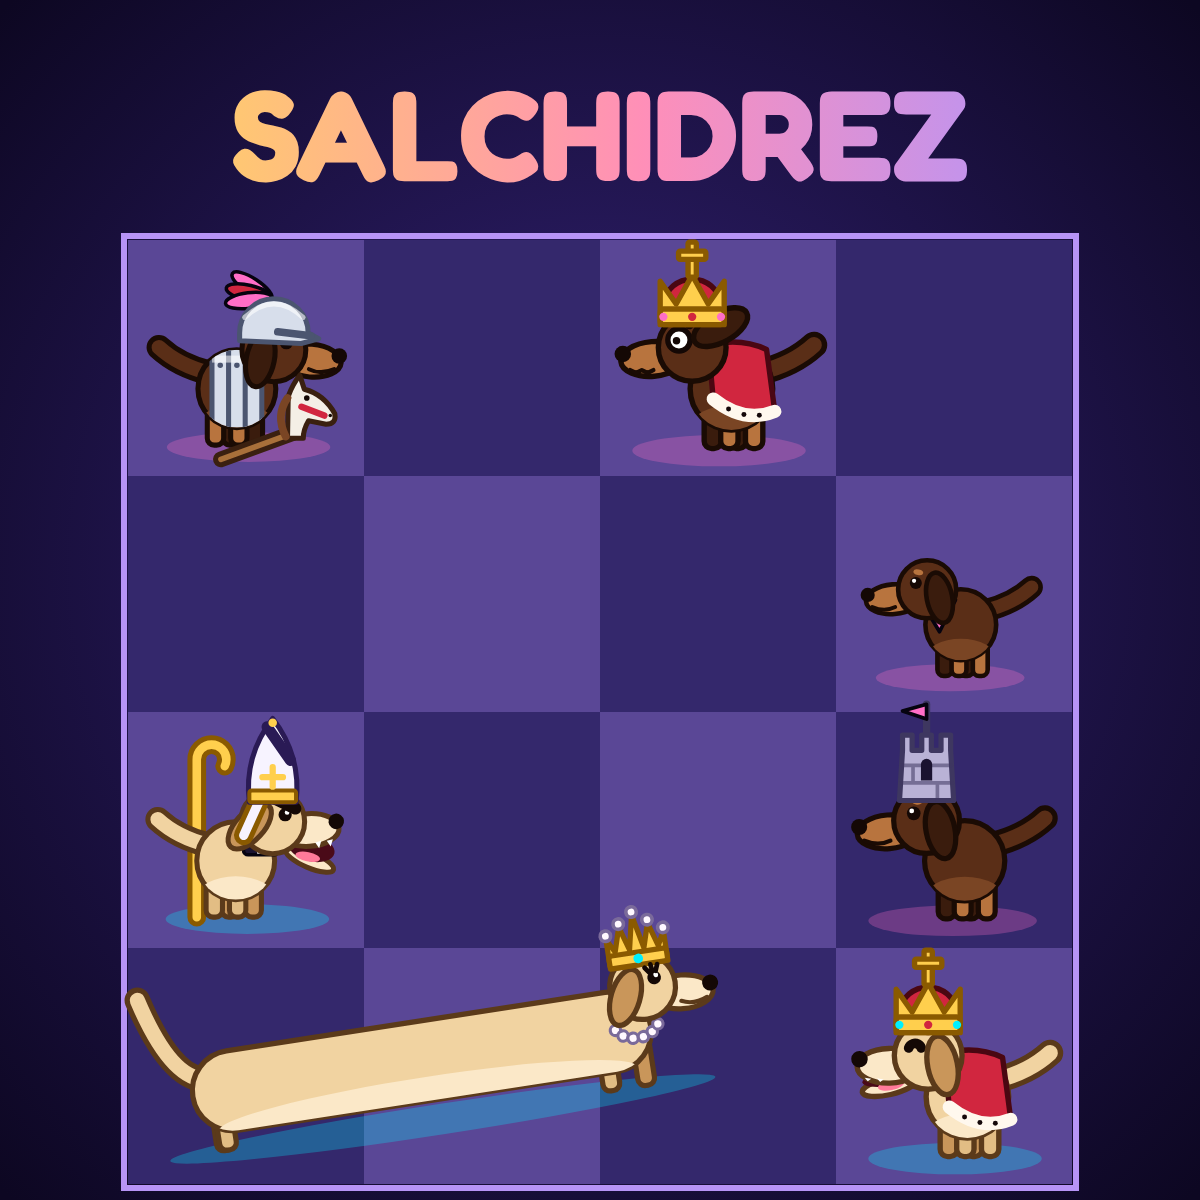
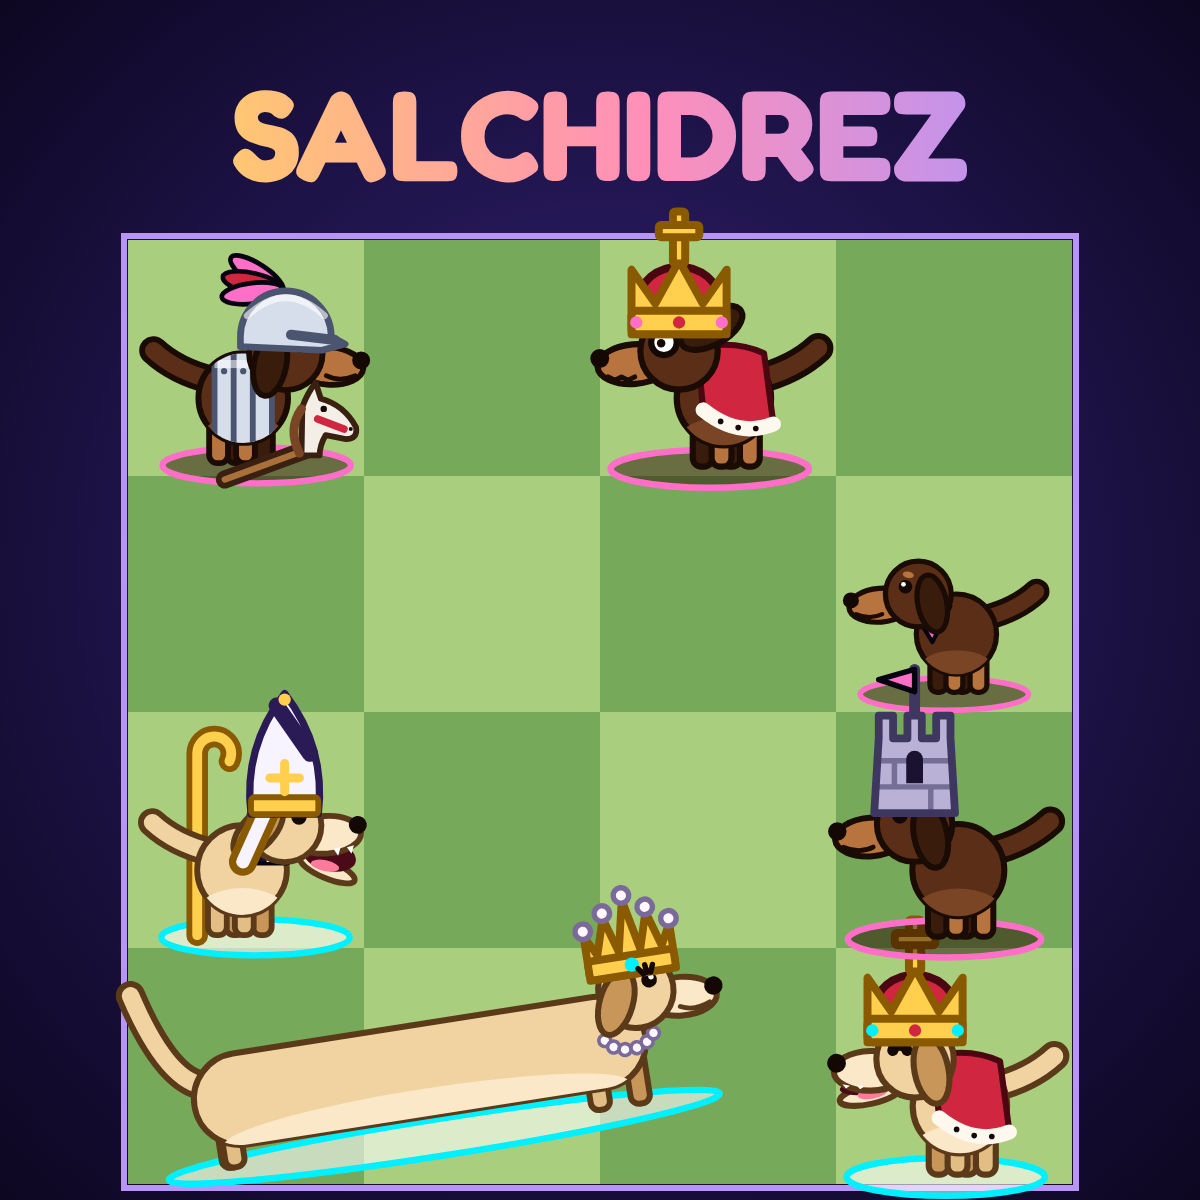
Salchidrez v0.6: piezas más grandes y legibles
Tablero de pasto en tonos medios que contrasta con perros claros y
oscuros, base del color de equipo bajo cada perro, sombreros más grandes,
medallita con el símbolo clásico activada de entrada (contorno para
Crema, relleno para Chocolate), huesitos con borde y resaltados más
visibles. Imagen de la tarjeta actualizada.

Claude-Session: https://claude.ai/code/session_01QYLh8qJZvqWht3UPzmo6eP

diff --git a/salchidrez/index.html b/salchidrez/index.html
@@ -256,7 +256,7 @@
       <button class="link" id="btn-legend">Quién es quién</button>
       <label class="link" for="opt-glyphs"><input type="checkbox" id="opt-glyphs"> Símbolos clásicos</label>
     </div>
-    <p class="foot">JETCompany OÜ · Salchidrez v0.5<br><span id="wins-label"></span></p>
+    <p class="foot">JETCompany OÜ · Salchidrez v0.6<br><span id="wins-label"></span></p>
   </div>
 </div>
 
@@ -316,12 +316,12 @@ const PAL = {
 
 // Proporciones por pieza (relativas al tamaño de casilla): radio del cuerpo y largo
 const DOG = {
-  p: { r: 0.15,  len: 0.26 },
-  n: { r: 0.165, len: 0.30 },
-  b: { r: 0.165, len: 0.31 },
-  r: { r: 0.17,  len: 0.32 },
-  q: { r: 0.17,  len: 0.34 },
-  k: { r: 0.175, len: 0.35 },
+  p: { r: 0.17,  len: 0.25 },
+  n: { r: 0.19,  len: 0.28 },
+  b: { r: 0.19,  len: 0.29 },
+  r: { r: 0.195, len: 0.30 },
+  q: { r: 0.195, len: 0.31 },
+  k: { r: 0.2,   len: 0.32 },
 };
 
 const NAMES = {
@@ -677,7 +677,7 @@ function dogAnchors(type, cx, cy, s, dir) {
   const d = DOG[type];
   const r = d.r * s, len = d.len * s;
   const off = (len + 0.65 * r) / 2;
-  const y = cy + s * 0.13;
+  const y = cy + s * 0.17;
   const ox = cx - dir * off;
   return { ox, oy: y, fx: ox + dir * len, fy: y, r };
 }
@@ -704,11 +704,13 @@ function drawDog(g, type, color, ox, oy, fx, fy, r, opts) {
   // Sombra / glow de equipo
   if (!opts.noShadow) {
     g.save();
-    g.fillStyle = pal.team;
-    g.globalAlpha *= 0.28;
     g.beginPath();
-    g.ellipse(len / 2 + r * 0.3, r * 1.5, len / 2 + r * 1.1, r * 0.38, 0, 0, Math.PI * 2);
+    g.ellipse(len / 2 + r * 0.3, r * 1.5, len / 2 + r * 1.1, r * 0.4, 0, 0, Math.PI * 2);
+    g.fillStyle = color === 'w' ? 'rgba(255, 255, 255, 0.6)' : 'rgba(40, 14, 4, 0.5)';
     g.fill();
+    g.lineWidth = Math.max(1.5, r * 0.14);
+    g.strokeStyle = pal.team;
+    g.stroke();
     g.restore();
   }
 
@@ -868,11 +870,12 @@ function drawDog(g, type, color, ox, oy, fx, fy, r, opts) {
 
   // Sombreros
   const topY = hy - r * 0.7;
-  if (type === 'k') drawCrown(g, hx, topY, r, pal, lw);
-  if (type === 'q') drawCoronet(g, hx, topY, r, pal, lw);
-  if (type === 'b') drawMitre(g, hx, topY, r, color, pal, lw);
-  if (type === 'r') drawTowerHat(g, hx, topY, r, pal, lw);
-  if (type === 'n') drawHelmet(g, hx, hy - r * 0.78, r, pal, lw, time);
+  const hat = (fn, y, k) => { g.save(); g.translate(hx, y); g.scale(k, k); g.translate(-hx, -y); fn(y); g.restore(); };
+  if (type === 'k') hat(y => drawCrown(g, hx, y, r, pal, lw), topY + r * 0.15, 1.3);
+  if (type === 'q') hat(y => drawCoronet(g, hx, y, r, pal, lw), topY + r * 0.15, 1.3);
+  if (type === 'b') hat(y => drawMitre(g, hx, y, r, color, pal, lw), topY + r * 0.2, 1.25);
+  if (type === 'r') hat(y => drawTowerHat(g, hx, y, r, pal, lw), topY + r * 0.2, 1.3);
+  if (type === 'n') hat(y => drawHelmet(g, hx, y, r, pal, lw, time), hy - r * 0.78, 1.15);
   if (type === 'q' && blink === 1 && !mood) drawLashes(g, ex, ey, r, lw);
 
   // Caballito de palo, delante del pecho
@@ -1176,11 +1179,14 @@ function drawBone(g, x, y, s, alpha) {
   g.globalAlpha = alpha;
   g.translate(x, y);
   g.rotate(-0.5);
-  g.fillStyle = C.bone;
-  g.fillRect(-w / 2, -k * 0.7, w, k * 1.4);
+  g.fillStyle = '#fffaf0';
+  g.strokeStyle = 'rgba(40, 60, 20, 0.7)';
+  g.lineWidth = Math.max(1.5, k * 0.35);
   for (const sx of [-1, 1]) for (const sy of [-1, 1]) {
-    g.beginPath(); g.arc(sx * w / 2, sy * k * 0.75, k, 0, Math.PI * 2); g.fill();
+    g.beginPath(); g.arc(sx * w / 2, sy * k * 0.75, k, 0, Math.PI * 2); g.fill(); g.stroke();
   }
+  g.beginPath(); g.rect(-w / 2, -k * 0.7, w, k * 1.4); g.fill();
+  g.beginPath(); g.moveTo(-w / 2, -k * 0.7); g.lineTo(w / 2, -k * 0.7); g.moveTo(-w / 2, k * 0.7); g.lineTo(w / 2, k * 0.7); g.stroke();
   g.restore();
 }
 
@@ -1192,12 +1198,12 @@ let W = 0, H = 0, DPR = 1;
 let L = { bx: 0, by: 0, s: 0, cardH: 64, topCardY: 0, botCardY: 0 };
 
 const BOARD = {
-  light: '#5a4796',
-  dark: '#34286c',
+  light: '#a9cf7e',
+  dark: '#77a95a',
   frameTop: '#4a3592',
   frameBot: '#241656',
   stitch: 'rgba(255, 255, 255, 0.28)',
-  label: 'rgba(246, 240, 255, 0.55)',
+  label: 'rgba(30, 60, 20, 0.75)',
 };
 
 const PIECE = { k: 'el Rey', q: 'la Reina', r: 'la Torre', b: 'el Obispo', n: 'el Caballero', p: 'un Cachorro' };
@@ -1235,7 +1241,7 @@ const AI_SAY = {
 const MOOD_TXT = { happy: 'Muy confiada', angry: 'Enojada', scared: 'Asustada' };
 const pickOne = a => a[Math.floor(Math.random() * a.length)];
 
-const opts = { mode: 'ai', level: 1, color: 'w', glyphs: loadPref('salchidrez-glyphs', false) ? 'on' : 'off' };
+const opts = { mode: 'ai', level: 1, color: 'w', glyphs: loadPref('salchidrez-glyphs2', true) ? 'on' : 'off' };
 let soundOn = loadPref('salchidrez-sfx', true);
 let musicOn = loadPref('salchidrez-music', true);
 
@@ -1821,8 +1827,8 @@ function render(now) {
   drawBoard(now);
 
   const hl = (sq, col) => { const p = sqXY(sq); ctx.fillStyle = col; ctx.fillRect(p.x - s / 2, p.y - s / 2, s, s); };
-  if (lastMove) { hl(lastMove.from, 'rgba(0, 229, 245, 0.16)'); hl(lastMove.to, 'rgba(0, 229, 245, 0.24)'); }
-  if (selected >= 0) hl(selected, 'rgba(255, 209, 102, 0.42)');
+  if (lastMove) { hl(lastMove.from, 'rgba(255, 240, 130, 0.35)'); hl(lastMove.to, 'rgba(255, 240, 130, 0.5)'); }
+  if (selected >= 0) hl(selected, 'rgba(255, 196, 60, 0.7)');
   const chk = inCheck(st, st.turn);
   if (chk) {
     const k = sqXY(kingSquare(st.b, st.turn));
@@ -1957,14 +1963,6 @@ function render(now) {
       else wag = 1.4;
     }
     if (sq === chkKing && !isKing) cx += Math.sin(now * 0.05) * s * 0.025;
-    if (opts.glyphs === 'on') {
-      ctx.save();
-      ctx.font = `700 ${Math.max(9, s * 0.2)}px 'DejaVu Sans', 'Segoe UI Symbol', serif`;
-      ctx.textAlign = 'right'; ctx.textBaseline = 'top';
-      ctx.fillStyle = PAL[col].team; ctx.globalAlpha = 0.8;
-      ctx.fillText(GLYPH[t] + '', P.x + s / 2 - 2, P.y - s / 2 + 1);
-      ctx.restore();
-    }
     const a = dogAnchors(t, cx, cy, s * grow, facing[sq] || 1);
     if (lunge > 0) {
       // Se estira hacia el rey al ladrar
@@ -1975,6 +1973,7 @@ function render(now) {
     const blink = ((now + blinkSeeds[sq]) % 4200) < 120;
     drawDog(ctx, t, col, a.ox, a.oy, a.fx, a.fy + sniff * a.r * 0.25, a.r, { time: now, seed: sq, wag, blink, mood, mouth });
     if (sq === chkKing) drawSweat(ctx, a, now);
+    if (opts.glyphs === 'on') drawPieceBadge(ctx, P.x + s * 0.36, P.y - s * 0.36, Math.max(8, s * 0.14), t, col);
     if (isKing) {
       const ct = now - checkFx.start;
       if (ct > 150 && ct < 1100) {
@@ -2172,7 +2171,7 @@ function drawBoard(now) {
     ctx.fillRect(x + c * s, y + r * s, s, s);
   }
   const v = ctx.createRadialGradient(x + n / 2, y + n * 0.4, n * 0.2, x + n / 2, y + n / 2, n * 0.75);
-  v.addColorStop(0, 'rgba(255,255,255,0.05)'); v.addColorStop(1, 'rgba(0,0,0,0.22)');
+  v.addColorStop(0, 'rgba(255,255,255,0.04)'); v.addColorStop(1, 'rgba(0,0,0,0.12)');
   ctx.fillStyle = v; ctx.fillRect(x, y, n, n);
   ctx.restore();
 
@@ -2186,6 +2185,39 @@ function drawBoard(now) {
     ctx.textAlign = 'left'; ctx.textBaseline = 'top';
     ctx.fillText(String(rank), x + 3, y + i * s + 2);
   }
+}
+
+// Medallita con el símbolo clásico: contorno para Crema (blancas), relleno para Chocolate (negras)
+function drawPieceBadge(g, x, y, rad, t, col) {
+  const light = col === 'w';
+  g.save();
+  g.beginPath(); g.arc(x, y, rad, 0, Math.PI * 2);
+  g.fillStyle = '#ffffff';
+  g.fill();
+  g.lineWidth = Math.max(2, rad * 0.22);
+  g.strokeStyle = light ? '#00b8c8' : '#5a2e17';
+  g.stroke();
+  g.fillStyle = '#1a0f3a';
+  g.strokeStyle = '#1a0f3a';
+  if (t === 'p') {
+    // Peón dibujado (el símbolo de texto se ve como emoji en algunos teléfonos)
+    g.lineWidth = Math.max(1.2, rad * 0.12);
+    g.beginPath(); g.arc(x, y - rad * 0.28, rad * 0.22, 0, Math.PI * 2);
+    light ? g.stroke() : g.fill();
+    g.beginPath();
+    g.moveTo(x - rad * 0.18, y - rad * 0.04); g.lineTo(x + rad * 0.18, y - rad * 0.04);
+    g.lineTo(x + rad * 0.34, y + rad * 0.45); g.lineTo(x - rad * 0.34, y + rad * 0.45);
+    g.closePath();
+    light ? g.stroke() : g.fill();
+  } else {
+    const glyph = (light
+      ? { k: '♔', q: '♕', r: '♖', b: '♗', n: '♘' }
+      : { k: '♚', q: '♛', r: '♜', b: '♝', n: '♞' })[t];
+    g.font = `${Math.round(rad * 1.45)}px 'DejaVu Sans', 'Segoe UI Symbol', 'Noto Sans Symbols 2', serif`;
+    g.textAlign = 'center'; g.textBaseline = 'middle';
+    g.fillText(glyph + '', x, y + rad * 0.08);
+  }
+  g.restore();
 }
 
 function drawPaw(g, x, y, size, ang, color, alpha) {
@@ -2906,7 +2938,7 @@ function init() {
   glyphs.checked = opts.glyphs === 'on';
   glyphs.addEventListener('change', () => {
     opts.glyphs = glyphs.checked ? 'on' : 'off';
-    savePref('salchidrez-glyphs', glyphs.checked);
+    savePref('salchidrez-glyphs2', glyphs.checked);
   });
 
   document.getElementById('btn-start').addEventListener('click', () => {

diff --git a/salchidrez/sw.js b/salchidrez/sw.js
@@ -1,5 +1,5 @@
 // Salchidrez Service Worker
-const CACHE_NAME = 'salchidrez-v0.5.1';
+const CACHE_NAME = 'salchidrez-v0.6.0';
 const ASSETS = ['./', './index.html', './manifest.json', './card.png'];
 
 self.addEventListener('install', e => {

diff --git a/salchidrez/README.md b/salchidrez/README.md
@@ -1,4 +1,4 @@
-# Salchidrez. Prototipo v0.5
+# Salchidrez. Prototipo v0.6
 
 Ajedrez de perros salchicha. Reglas completas del ajedrez, pero cada pieza es un salchicha disfrazado de lo que representa. Cuando se mueve, el perro estira el cuerpo hasta la casilla destino y después la cola lo alcanza. El caballero salta.
 
@@ -33,7 +33,7 @@ Para subirlo a Hostinger alcanza con `index.html`, `manifest.json`, `sw.js` y `c
 | Caballo | Caballero | yelmo con penacho, armadura y caballito de palo; salta en vez de estirarse |
 | Peón | Cachorro | pañuelo, el más chiquito |
 
-Opcional: símbolo clásico (♔♕♖♗♘♙) en la esquina de cada casilla, se activa desde el menú.
+Tablero de pasto en tonos medios para que contrasten los perros claros y los oscuros. Cada perro tiene una base del color de su equipo y una medallita con el símbolo clásico (♔ contorno para Crema, ♚ relleno para Chocolate). La medallita se puede ocultar desde el menú.
 
 ## Música
 
